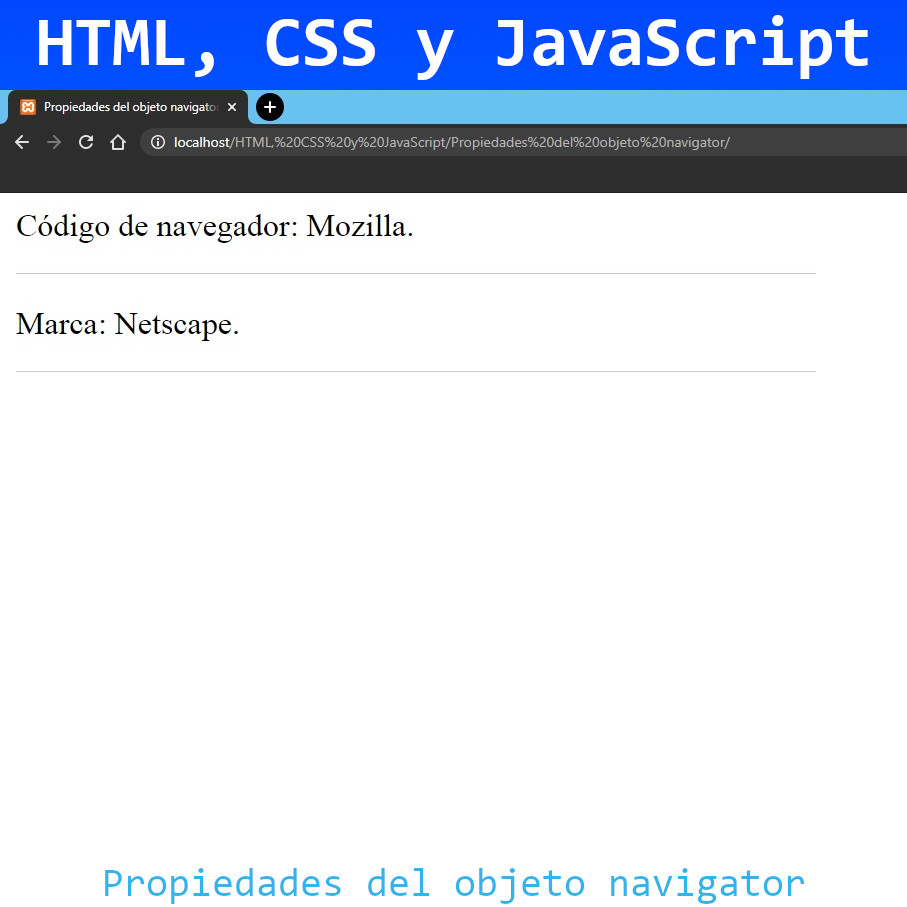
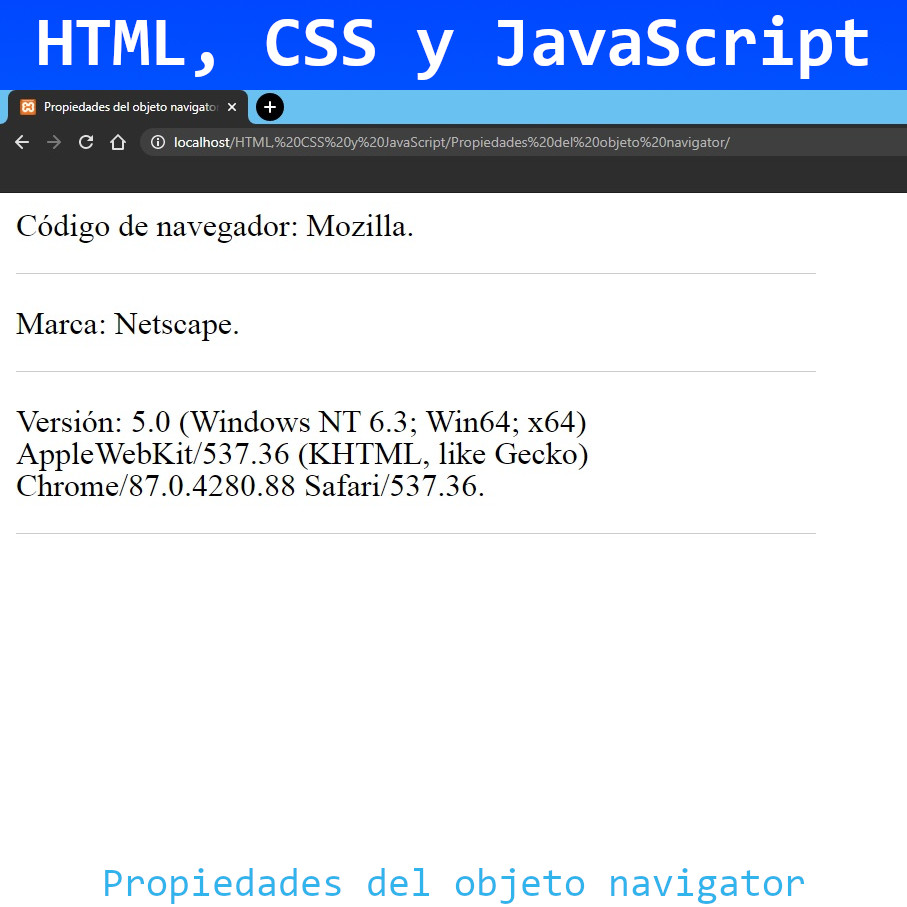
Propiedades del objeto navigator
Propiedades del objeto navigator en JavaScript

Changed region(s): [[0.0, 0.4322, 0.6483, 0.5557]]

diff --git a/HTML, CSS y JavaScript/Propiedades del objeto navigator/js/funciones.js b/HTML, CSS y JavaScript/Propiedades del objeto navigator/js/funciones.js
@@ -10,3 +10,9 @@ var marca = navigator.appName;
 document.write("Marca: "+marca+".");
 // SEPARACIÓN
 document.write("<hr>");
+// AVERIGUAR VERSIÓN DEL NAVEGADOR
+var version = navigator.appVersion;
+// mostrar en pantalla
+document.write("Versión: "+version+".");
+// SEPARACIÓN
+document.write("<hr>");
